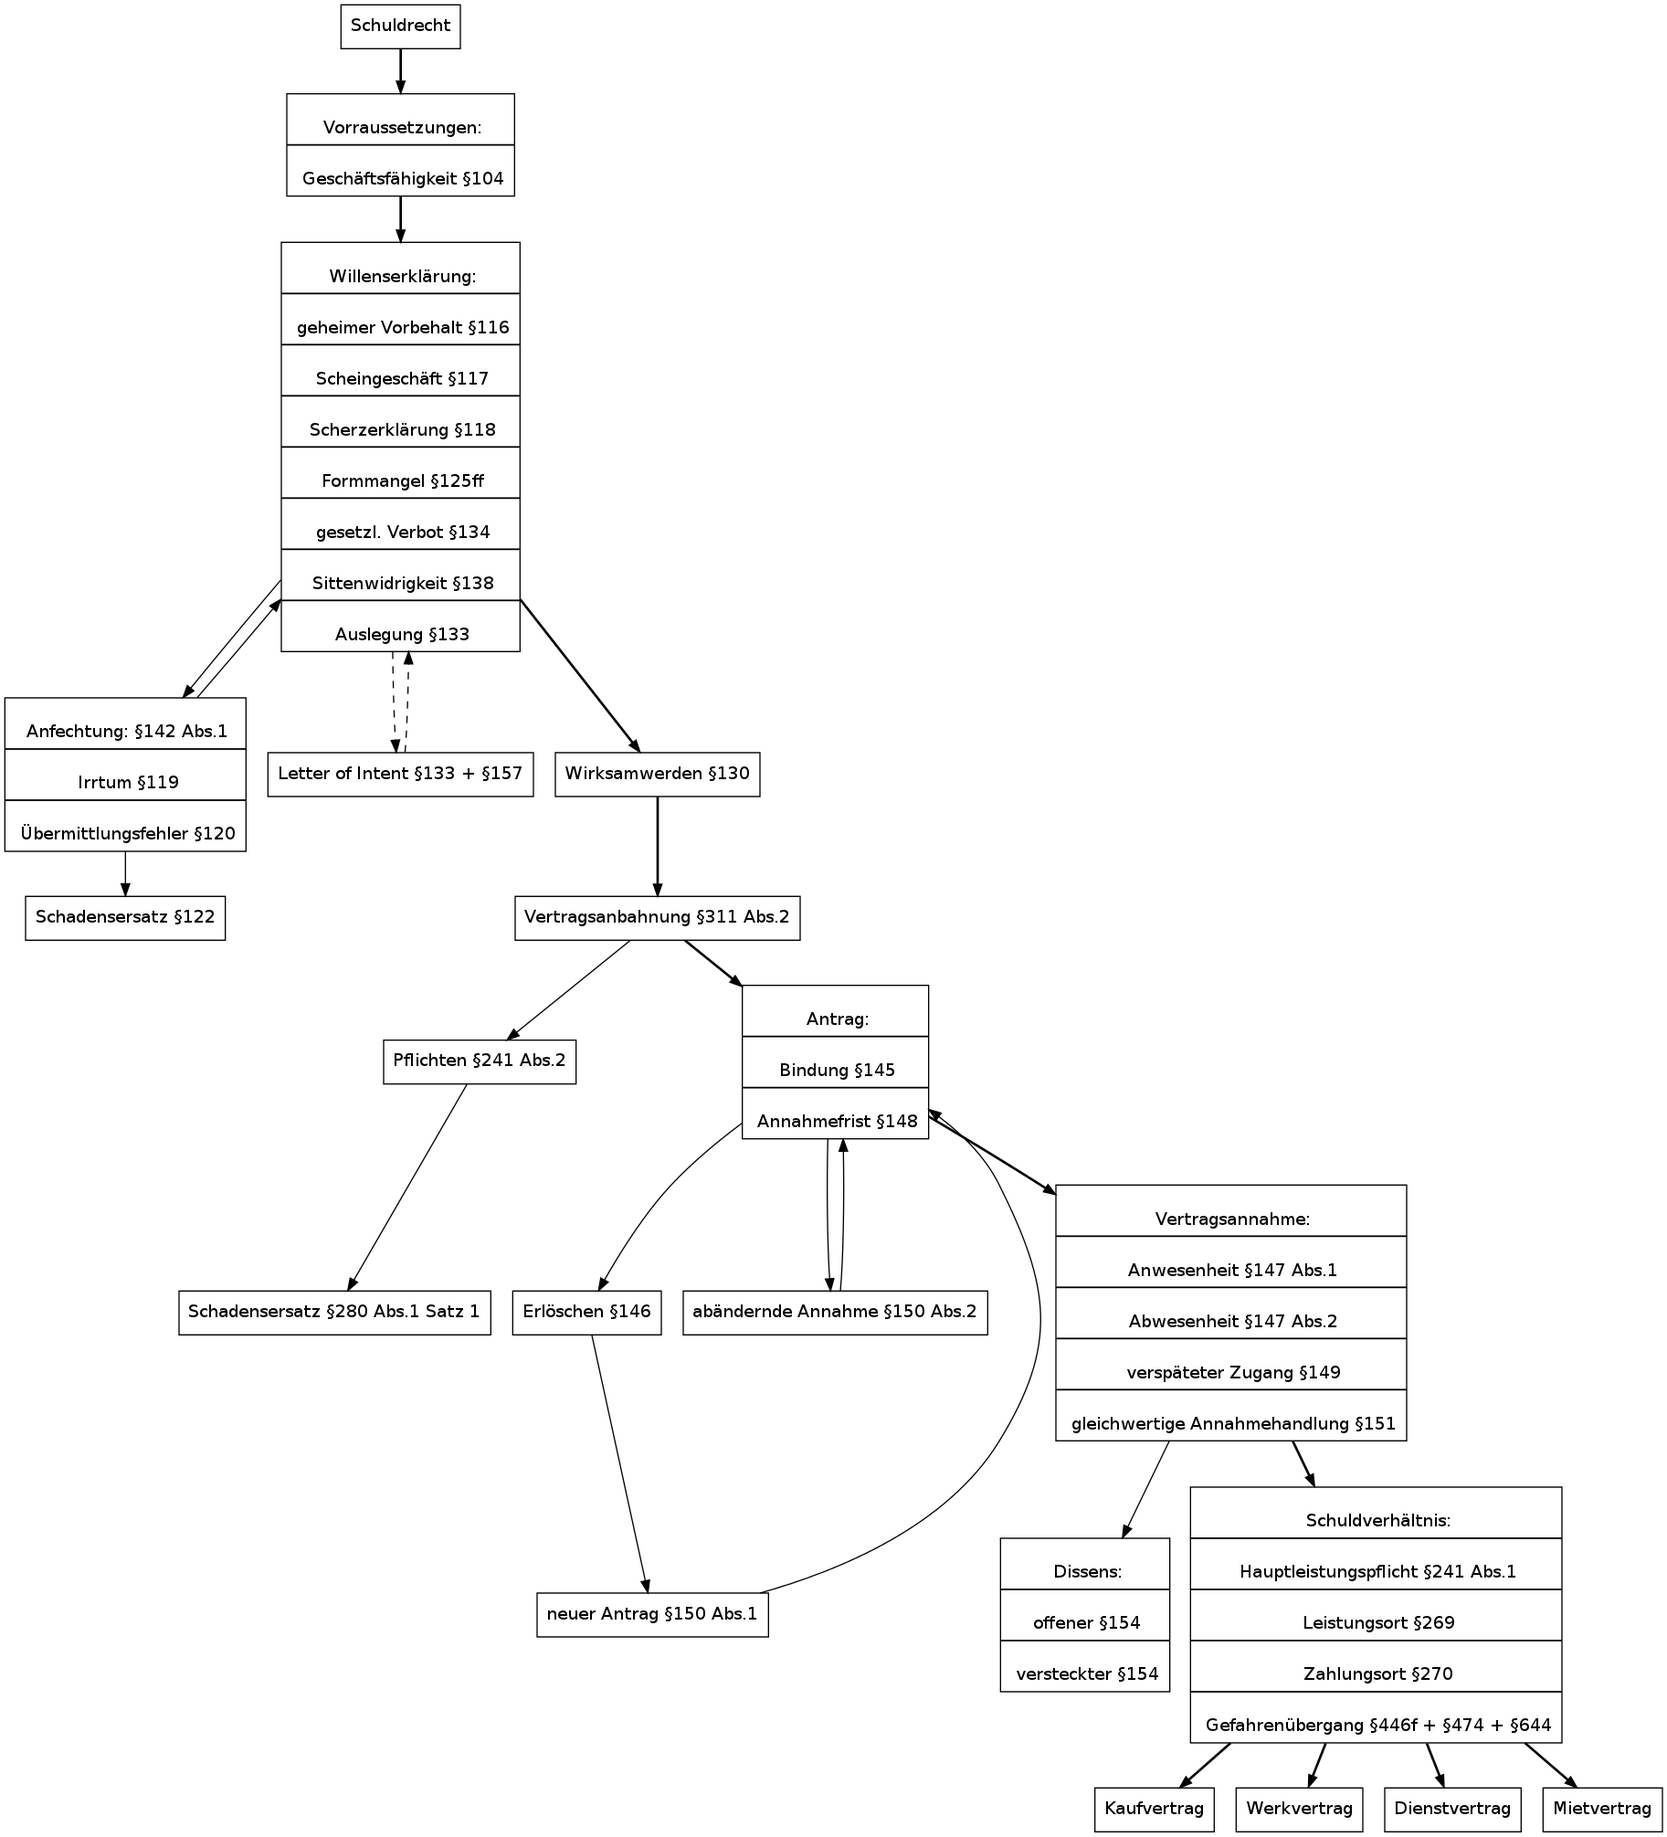
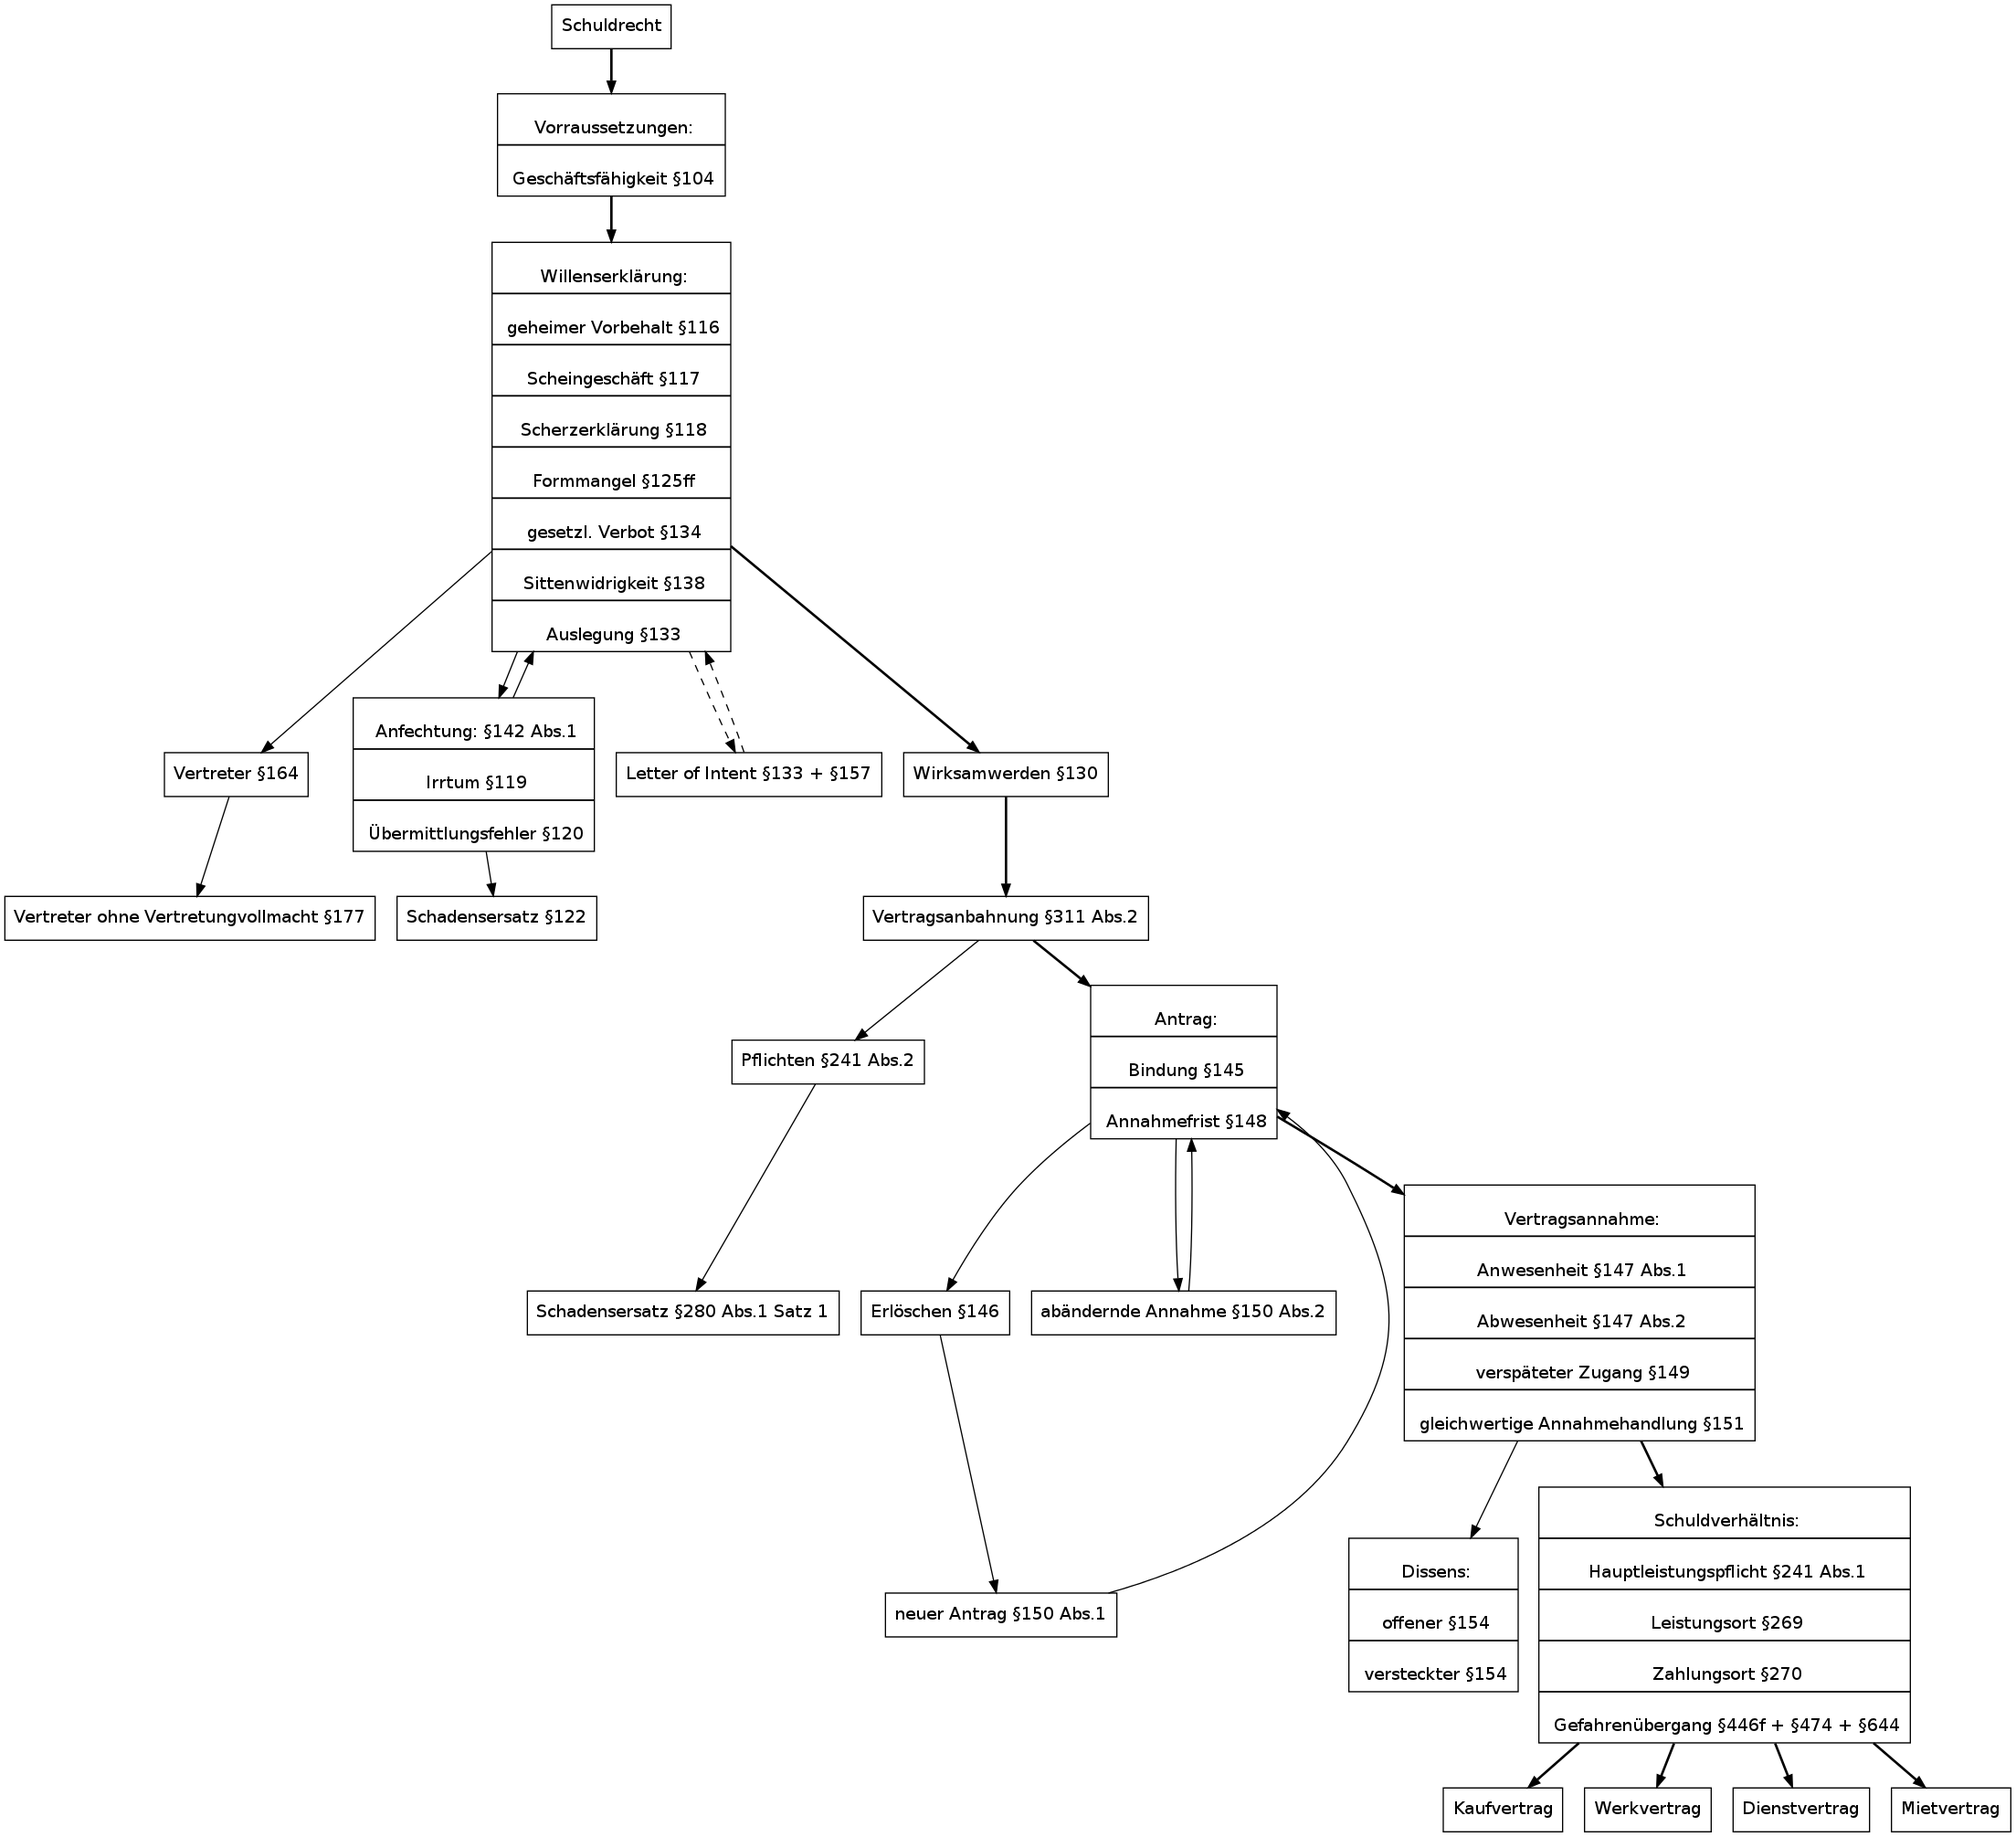
Vertreter

diff --git a/graph.rb b/graph.rb
@@ -21,6 +21,8 @@ wille = g.add_nodes("Willenserklärung", "shape" => "record", "label" => "{
   gesetzl. Verbot §134 |
   Sittenwidrigkeit §138 |
   Auslegung §133}")
+vertreter = g.add_nodes("Vertreter §164")
+nicht_vertreter = g.add_nodes("Vertreter ohne Vertretungvollmacht §177")
 anfecht = g.add_nodes("Anfechtung", "shape" => "record", "label" => "{
   Anfechtung: §142 Abs.1 |
   Irrtum §119 |
@@ -66,6 +68,8 @@ mv = g.add_nodes( "Mietvertrag" )
 g.add_edges( schuldrecht, vorraus , "style" => "bold")
 
 g.add_edges( vorraus, wille , "style" => "bold")
+g.add_edges( wille, vertreter )
+g.add_edges( vertreter, nicht_vertreter )
 g.add_edges( wille, anfecht )
 g.add_edges( anfecht, anfecht_ersatz )
 g.add_edges( anfecht, wille )
@@ -78,11 +82,11 @@ g.add_edges( wirk, anbahn , "style" => "bold")
 
 g.add_edges( anbahn, antrag , "style" => "bold")
 g.add_edges( antrag, annahme , "style" => "bold")
+g.add_edges( antrag, antrag_aender)
+g.add_edges( antrag_aender, antrag)
 g.add_edges( antrag, antrag_erloescht )
 g.add_edges( antrag_erloescht, antrag_neu)
 g.add_edges( antrag_neu, antrag)
-g.add_edges( antrag, antrag_aender)
-g.add_edges( antrag_aender, antrag)
 g.add_edges( annahme, dissens)
 
 g.add_edges( annahme, schuldverh, "style" => "bold")
